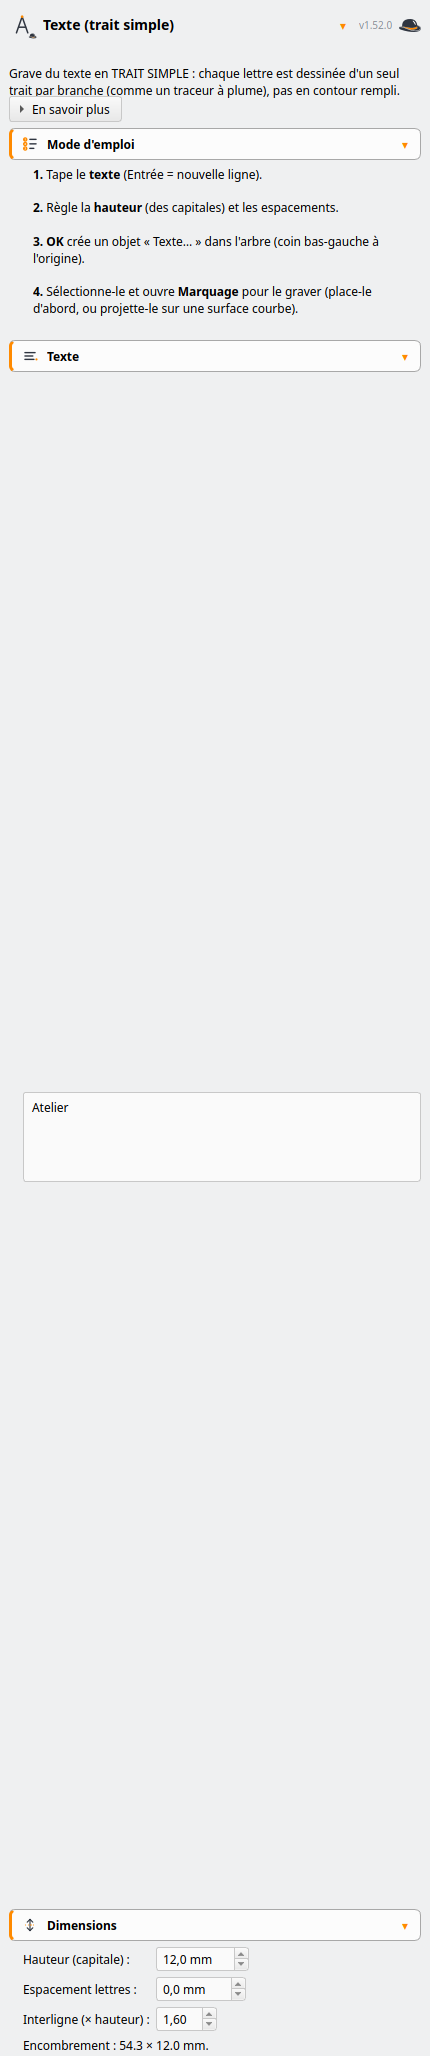
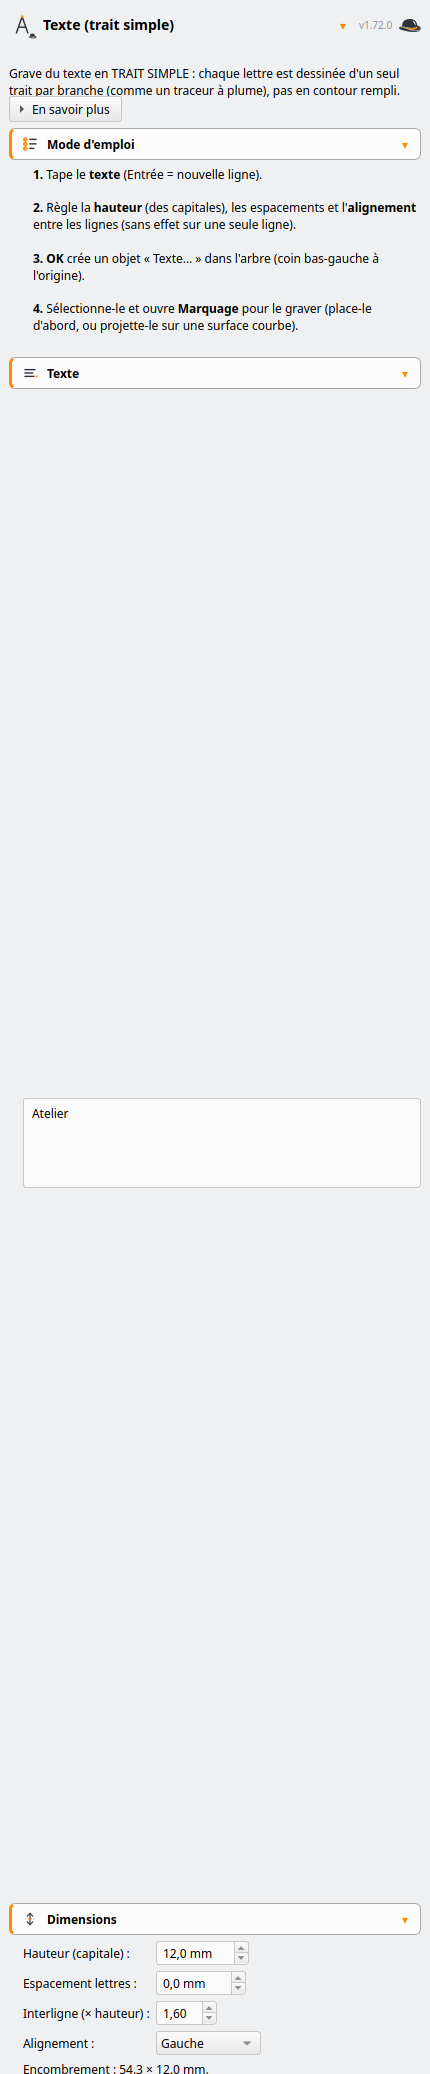
Ajoute l'alignement (gauche/centre/droite/justifié) au mode Texte
Le calage horizontal des lignes entre elles était fixé à gauche. Le
"justifié" étire les espaces internes pour égaliser la largeur des
lignes (sans effet sur un mot seul, faute d'espace à étirer) ;
l'alignement ne change jamais l'encombrement global du bloc de texte.

diff --git a/docs/manuel.html b/docs/manuel.html
@@ -198,7 +198,7 @@
   </div>
   <div class="foot">
     <div class="meta">
-      <span class="ver">Version 1.71.10</span><br>
+      <span class="ver">Version 1.72.0</span><br>
       <b>Manuel complet</b> — installation &amp; utilisation<br>
       Juillet 2026 · licence LGPL-2.1-or-later<br>
       laser.atelierduverdier.fr
@@ -248,7 +248,7 @@
     <div class="ev"><span class="d">13 juillet 2026</span><p>La toute première macro, <code>texte_hachures_laser</code> : générer le G-code d'un marquage (contour + remplissage par hachures) à partir d'un motif FreeCAD, avec déjà la stratégie « relais » qui deviendra une signature de l'atelier — armer le laser <em>une seule fois</em> par travail et ne moduler que la puissance.</p></div>
     <div class="ev"><span class="d">14 juillet 2026</span><p>Une grappe de macros spécialisées apparaît en une journée : projection d'un motif sur une surface 3D, suivi de hauteur <em>continu</em> pendant les déplacements, découpe multi-passes à plat, collage de hachures sur un solide. Chaque idée testée dans son coin.</p></div>
     <div class="ev"><span class="d">15 juillet 2026</span><p><code>laser_atelier</code> (1 777 lignes) réunit tout dans un seul script à cinq modes. C'est le brouillon grandeur nature du futur atelier.</p></div>
-    <div class="ev"><span class="d">… puis le workbench</span><p>Le script devient un <strong>atelier FreeCAD</strong> à part entière : cinq modules propres, dix-huit modes, un système de calibration, des profils par laser, une documentation. La version décrite ici est la <strong>1.71.10</strong>.</p></div>
+    <div class="ev"><span class="d">… puis le workbench</span><p>Le script devient un <strong>atelier FreeCAD</strong> à part entière : cinq modules propres, dix-huit modes, un système de calibration, des profils par laser, une documentation. La version décrite ici est la <strong>1.72.0</strong>.</p></div>
   </div>
 
   <div class="box pourquoi">
@@ -518,7 +518,7 @@
     <h4>Texte (trait simple)</h4>
     <p class="quoi">Écrire un texte « bâton », un seul trait par branche.</p>
     <p>Une police monotrait (façon table traçante) idéale quand le remplissage n'a pas de sens — les lettres à trou notamment. Crée un fil dans l'arbre, à graver ensuite avec le Marquage.</p>
-    <p class="meta"><b>Réglages clés :</b> texte · hauteur · espacements. <b>Sortie :</b> objet fil</p>
+    <p class="meta"><b>Réglages clés :</b> texte · hauteur · espacements · alignement. <b>Sortie :</b> objet fil</p>
   </div></div>
 
   <div class="mode"><img class="ic" src="../resources/icons/halftone.svg" alt=""><div class="body">
@@ -774,7 +774,7 @@
 
   <div class="signature">
     <img src="../resources/icons/chapeau.svg" alt="">
-    <p>LaserAtelier v1.71.10 — Atelier du Verdier<br>
+    <p>LaserAtelier v1.72.0 — Atelier du Verdier<br>
     Le petit chapeau en coin de chaque icône est la signature de l'atelier.<br>
     Manuel généré en juillet 2026 · licence LGPL-2.1-or-later.</p>
   </div>

diff --git a/docs/index.html b/docs/index.html
@@ -274,7 +274,7 @@
   <div class="wrap hero-grid">
     <div>
       <div class="badges">
-        <span class="badge">Version <b>1.71.10</b></span>
+        <span class="badge">Version <b>1.72.0</b></span>
         <span class="badge">Workbench <b>FreeCAD 1.1</b></span>
         <span class="badge">Cible <b>LinuxCNC · GRBL · grblHAL</b></span>
         <span class="badge">Testé sur <b>PrintNC</b> + <b>LT-80W-AA-PRO</b></span>

diff --git a/laser_core.py b/laser_core.py
@@ -176,7 +176,7 @@ from collections import defaultdict
 # panneaux et l'en-tête des G-codes. À incrémenter à chaque publication,
 # EN MÊME TEMPS que <version> dans package.xml (gestionnaire d'extensions
 # FreeCAD), le badge du site (docs/index.html) et la ligne du README.
-VERSION = "1.71.10"
+VERSION = "1.72.0"
 
 # Translittérations non gérées par la décomposition NFKD (qui ne sépare
 # pas ces caractères en base ASCII + accent), pour l'assainisseur LinuxCNC.
@@ -1185,12 +1185,30 @@ def chain_edges(edges, distance=DISCRETIZE_DISTANCE, tolerance=CHAIN_TOLERANCE):
 # public). On produit des arêtes Part que l'utilisateur grave ensuite avec
 # le mode Marquage (styles, suivi de surface, préréglages, job combiné).
 
+def _mono_line_width(line, hf, scale, char_spacing):
+    """Largeur (mm) d'UNE ligne de texte mono-trait -- factorisé pour que
+    single_line_text_to_edges et single_line_text_extent ne dupliquent pas
+    le même parcours caractère par caractère."""
+    x = 0.0
+    for ch in line:
+        g = hf.GLYPHES.get(ch)
+        x += (g[0] if g else hf.ADV_DEFAULT) * scale + char_spacing
+    return x - char_spacing if line else 0.0
+
+
 def single_line_text_to_edges(text, height=10.0, char_spacing=0.0,
-                              line_spacing=1.6, z=0.0, x0=0.0, y0=0.0):
+                              line_spacing=1.6, z=0.0, x0=0.0, y0=0.0,
+                              align="left"):
     """Texte -> arêtes Part en police mono-trait. `height` = hauteur de
     capitale (mm) ; `char_spacing` = espace ajouté entre lettres (mm) ;
-    `line_spacing` = interligne en multiples de la hauteur. Origine : ligne
-    de base de la 1re ligne en (x0, y0) (lettres au-dessus), lignes suivantes
+    `line_spacing` = interligne en multiples de la hauteur. `align` : "left"
+    (défaut, chaque ligne part de x0), "center"/"right" (chaque ligne calée
+    sur la plus large du bloc), ou "justify" (les espaces internes sont
+    étirés pour que chaque ligne atteigne la largeur de la plus longue --
+    sans effet sur une ligne d'un seul mot, faute d'espace à étirer).
+    L'alignement ne change jamais l'encombrement global (seule la position
+    des lignes les plus courtes bouge à l'intérieur). Origine : ligne de
+    base de la 1re ligne en (x0, y0) (lettres au-dessus), lignes suivantes
     en dessous. Renvoie [] si la police est absente ou le texte vide."""
     try:
         import hershey_font as hf
@@ -1200,14 +1218,27 @@ def single_line_text_to_edges(text, height=10.0, char_spacing=0.0,
         return []
     scale = float(height) / float(hf.CAP_HEIGHT)
     line_pitch = line_spacing * height
+    lines = text.replace("\r", "").split("\n")
+    widths = [_mono_line_width(line, hf, scale, char_spacing) for line in lines]
+    maxw = max(widths) if widths else 0.0
     edges = []
     y_line = y0
-    for line in text.replace("\r", "").split("\n"):
-        x = x0
+    for line, lw in zip(lines, widths):
+        n_spaces = line.count(" ")
+        extra = 0.0
+        if align == "center":
+            x = x0 + (maxw - lw) / 2.0
+        elif align == "right":
+            x = x0 + (maxw - lw)
+        elif align == "justify" and n_spaces > 0 and lw < maxw - 1e-6:
+            x = x0
+            extra = (maxw - lw) / n_spaces
+        else:
+            x = x0
         for ch in line:
             g = hf.GLYPHES.get(ch)
             if g is None:
-                x += hf.ADV_DEFAULT * scale + char_spacing
+                x += hf.ADV_DEFAULT * scale + char_spacing + (extra if ch == " " else 0.0)
                 continue
             adv, strokes = g
             for st in strokes:
@@ -1216,33 +1247,29 @@ def single_line_text_to_edges(text, height=10.0, char_spacing=0.0,
                 for i in range(len(pts) - 1):
                     if pts[i].distanceToPoint(pts[i + 1]) > 1e-7:
                         edges.append(Part.LineSegment(pts[i], pts[i + 1]).toShape())
-            x += adv * scale + char_spacing
+            x += adv * scale + char_spacing + (extra if ch == " " else 0.0)
         y_line -= line_pitch
     return edges
 
 
 def single_line_text_extent(text, height=10.0, char_spacing=0.0, line_spacing=1.6):
     """(largeur_mm, hauteur_mm) approximative du texte mono-trait, sans
-    construire d'arêtes -- pour l'aperçu d'encombrement du panneau."""
+    construire d'arêtes -- pour l'aperçu d'encombrement du panneau. Valable
+    quel que soit l'alignement (qui ne change pas l'encombrement global)."""
     try:
         import hershey_font as hf
     except Exception:
         return 0.0, 0.0
     scale = float(height) / float(hf.CAP_HEIGHT)
     lines = text.replace("\r", "").split("\n") or [""]
-    maxw = 0.0
-    for line in lines:
-        x = 0.0
-        for ch in line:
-            g = hf.GLYPHES.get(ch)
-            x += (g[0] if g else hf.ADV_DEFAULT) * scale + char_spacing
-        maxw = max(maxw, x - char_spacing if line else 0.0)
+    maxw = max((_mono_line_width(line, hf, scale, char_spacing) for line in lines),
+              default=0.0)
     h = height + (len(lines) - 1) * line_spacing * height
     return maxw, h
 
 
 def create_single_line_text_object(text, height=10.0, char_spacing=0.0,
-                                   line_spacing=1.6):
+                                   line_spacing=1.6, align="left"):
     """Crée dans le document un objet fil « TexteTraitSimple » (texte en
     police mono-trait), à sélectionner puis graver avec Marquage. Renvoie
     (objet, erreur)."""
@@ -1251,7 +1278,7 @@ def create_single_line_text_object(text, height=10.0, char_spacing=0.0,
         return None, "Ouvre (ou crée) un document d'abord."
     if not (text or "").strip():
         return None, "Saisis un texte."
-    edges = single_line_text_to_edges(text, height, char_spacing, line_spacing)
+    edges = single_line_text_to_edges(text, height, char_spacing, line_spacing, align=align)
     if not edges:
         return None, "Aucun caractère traçable dans ce texte."
     obj = doc.addObject("Part::Feature", "TexteTraitSimple")

diff --git a/task_panels.py b/task_panels.py
@@ -2771,7 +2771,8 @@ class TaskPanelText:
         _section(form, "Mode d'emploi", "sect_guide.svg")
         _bullet_list(form, [
             "<b>1.</b> Tape le <b>texte</b> (Entrée = nouvelle ligne).",
-            "<b>2.</b> Règle la <b>hauteur</b> (des capitales) et les espacements.",
+            "<b>2.</b> Règle la <b>hauteur</b> (des capitales), les espacements et "
+            "l'<b>alignement</b> entre les lignes (sans effet sur une seule ligne).",
             "<b>3. OK</b> crée un objet «&nbsp;Texte…&nbsp;» dans l'arbre (coin "
             "bas-gauche à l'origine).",
             "<b>4.</b> Sélectionne-le et ouvre <b>Marquage</b> pour le graver "
@@ -2812,6 +2813,16 @@ class TaskPanelText:
         self.spn_lspace.setToolTip("Interligne, en multiples de la hauteur.")
         form.addRow("Interligne (× hauteur) :", self.spn_lspace)
 
+        self.combo_align = QtWidgets.QComboBox()
+        self.combo_align.addItems(["Gauche", "Centré", "Droite", "Justifié"])
+        self.combo_align.setToolTip(
+            "Calage horizontal des lignes entre elles (sans effet sur un "
+            "texte à une seule ligne).\n« Justifié » étire les espaces "
+            "internes pour que chaque ligne atteigne la largeur de la "
+            "plus longue -- sans effet sur une ligne d'un seul mot, "
+            "faute d'espace à étirer.")
+        form.addRow("Alignement :", self.combo_align)
+
         self.lbl_info = _WrapLabel("")
         form.addRow(self.lbl_info)
         for w in (self.spn_height, self.spn_cspace, self.spn_lspace):
@@ -2819,7 +2830,8 @@ class TaskPanelText:
         self.txt.textChanged.connect(self._update_info)
 
         self._last_fields = {"text": self.txt, "height": self.spn_height,
-                             "cspace": self.spn_cspace, "lspace": self.spn_lspace}
+                             "cspace": self.spn_cspace, "lspace": self.spn_lspace,
+                             "align": self.combo_align}
         _restore_last_values("text", self._last_fields)
 
         self.form = _scrollable(inner)
@@ -2835,11 +2847,14 @@ class TaskPanelText:
             "Encombrement : {:.1f} × {:.1f} mm.".format(w, h) if w > 0
             else "Saisis un texte.")
 
+    _ALIGN_VALUES = ("left", "center", "right", "justify")
+
     def accept(self):
         _save_last_values("text", self._last_fields)
         obj, err = core.create_single_line_text_object(
             self.txt.toPlainText(), self.spn_height.value(),
-            self.spn_cspace.value(), self.spn_lspace.value())
+            self.spn_cspace.value(), self.spn_lspace.value(),
+            align=self._ALIGN_VALUES[self.combo_align.currentIndex()])
         if err:
             QtWidgets.QMessageBox.critical(self.form, "Erreur", err)
             return False

diff --git a/README.md b/README.md
@@ -1,7 +1,7 @@
 # Atelier Laser
 
 <p align="center"><img src="resources/logo.svg" alt="Atelier Laser — PrintNC" width="360"></p>
-<p align="center"><img src="resources/icons/chapeau.svg" alt="" width="56"><br><sub><b>v1.71.10</b> — Le petit chapeau en coin de chaque icône est la signature de l'<a href="https://atelierduverdier.fr">Atelier du Verdier</a>.<br>© Atelier du Verdier — licence <a href="LICENSE">LGPL-2.1-or-later</a>.</sub></p>
+<p align="center"><img src="resources/icons/chapeau.svg" alt="" width="56"><br><sub><b>v1.72.0</b> — Le petit chapeau en coin de chaque icône est la signature de l'<a href="https://atelierduverdier.fr">Atelier du Verdier</a>.<br>© Atelier du Verdier — licence <a href="LICENSE">LGPL-2.1-or-later</a>.</sub></p>
 <p align="center"><a href="https://ko-fi.com/atelierduverdier"><b>☕ L'atelier vous est utile ? Soutenez-le sur Ko-fi</b></a></p>
 
 Workbench [FreeCAD](https://www.freecad.org/) pour la génération de G-code de marquage/découpe laser : gravure noir plein de textes/formes, suivi de surfaces 3D courbes, découpe multi-passes, grilles de test et de calibration, et jobs combinant plusieurs opérations en une seule passe.
